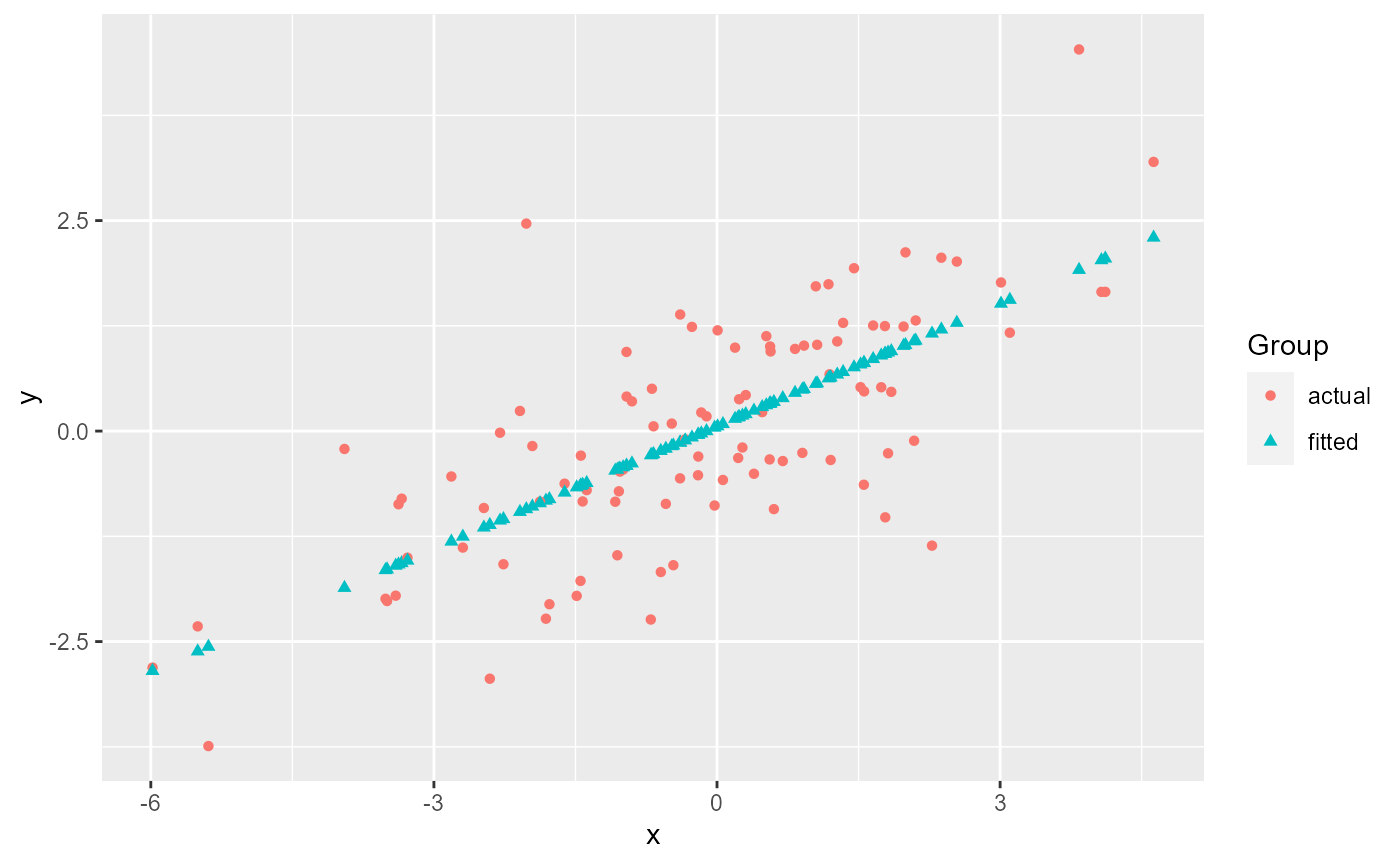
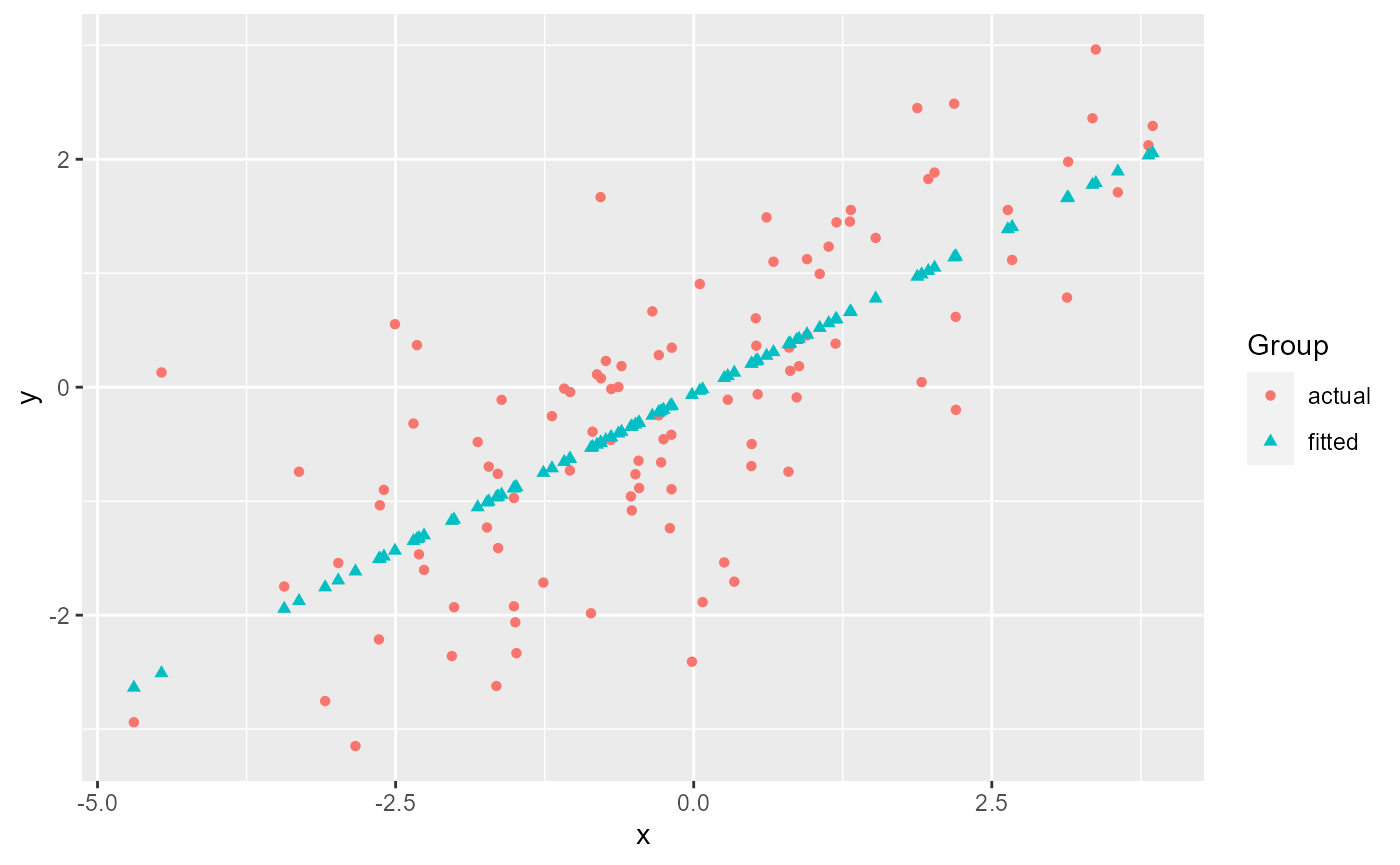
Created internal descriptive stats calculation functions

diff --git a/docs/reference/ggmatplot.html b/docs/reference/ggmatplot.html
@@ -228,8 +228,7 @@ y axis label and legend title respectively.</p></td>
     <tr>
       <th>...</th>
       <td><p>Other arguments passed on to the plot. Possible arguments are those
-that can be passed on to the <a href='#plot-types'>underlying ggplot layer</a>, corresponding
-to the plot type.</p></td>
+that can be passed on to the <a href='#plot-types'>underlying ggplot layer</a>.</p></td>
     </tr>
     </table>
 
@@ -262,7 +261,8 @@ or <a href='https://ggplot2.tidyverse.org/reference/index.html#section-stats'><c
 <span class='r-in'><span class='fu'>ggmatplot</span><span class='op'>(</span><span class='va'>iris_sub</span><span class='op'>[</span>, <span class='fu'><a href='https://rdrr.io/r/base/c.html'>c</a></span><span class='op'>(</span><span class='fl'>1</span>, <span class='fl'>3</span><span class='op'>)</span><span class='op'>]</span>, <span class='va'>iris_sub</span><span class='op'>[</span>, <span class='fu'><a href='https://rdrr.io/r/base/c.html'>c</a></span><span class='op'>(</span><span class='fl'>2</span>, <span class='fl'>4</span><span class='op'>)</span><span class='op'>]</span><span class='op'>)</span></span>
 <span class='r-plt img'><img src='ggmatplot-1.png' alt='' width='700' height='433' /></span>
 <span class='r-in'><span class='co'># Modify legend label and axis</span></span>
-<span class='r-in'><span class='fu'>ggmatplot</span><span class='op'>(</span><span class='va'>iris_sub</span><span class='op'>[</span>, <span class='fu'><a href='https://rdrr.io/r/base/c.html'>c</a></span><span class='op'>(</span><span class='fl'>1</span>, <span class='fl'>3</span><span class='op'>)</span><span class='op'>]</span>, <span class='va'>iris_sub</span><span class='op'>[</span>, <span class='fu'><a href='https://rdrr.io/r/base/c.html'>c</a></span><span class='op'>(</span><span class='fl'>2</span>, <span class='fl'>4</span><span class='op'>)</span><span class='op'>]</span>, shape <span class='op'>=</span> <span class='fu'><a href='https://rdrr.io/r/base/c.html'>c</a></span><span class='op'>(</span><span class='fl'>4</span>, <span class='fl'>6</span><span class='op'>)</span>, legend_label <span class='op'>=</span> <span class='fu'><a href='https://rdrr.io/r/base/c.html'>c</a></span><span class='op'>(</span><span class='st'>"Sepal"</span>, <span class='st'>"Petal"</span><span class='op'>)</span>, legend_title <span class='op'>=</span> <span class='st'>""</span>, xlab <span class='op'>=</span> <span class='st'>"Length"</span>, ylab <span class='op'>=</span> <span class='st'>"Width"</span><span class='op'>)</span></span>
+<span class='r-in'><span class='fu'>ggmatplot</span><span class='op'>(</span><span class='va'>iris_sub</span><span class='op'>[</span>, <span class='fu'><a href='https://rdrr.io/r/base/c.html'>c</a></span><span class='op'>(</span><span class='fl'>1</span>, <span class='fl'>3</span><span class='op'>)</span><span class='op'>]</span>, <span class='va'>iris_sub</span><span class='op'>[</span>, <span class='fu'><a href='https://rdrr.io/r/base/c.html'>c</a></span><span class='op'>(</span><span class='fl'>2</span>, <span class='fl'>4</span><span class='op'>)</span><span class='op'>]</span>, shape <span class='op'>=</span> <span class='fu'><a href='https://rdrr.io/r/base/c.html'>c</a></span><span class='op'>(</span><span class='fl'>4</span>, <span class='fl'>6</span><span class='op'>)</span>,</span>
+<span class='r-in'>legend_label <span class='op'>=</span> <span class='fu'><a href='https://rdrr.io/r/base/c.html'>c</a></span><span class='op'>(</span><span class='st'>"Sepal"</span>, <span class='st'>"Petal"</span><span class='op'>)</span>, legend_title <span class='op'>=</span> <span class='st'>""</span>, xlab <span class='op'>=</span> <span class='st'>"Length"</span>, ylab <span class='op'>=</span> <span class='st'>"Width"</span><span class='op'>)</span></span>
 <span class='r-plt img'><img src='ggmatplot-2.png' alt='' width='700' height='433' /></span>
 </pre>
   </div>

diff --git a/docs/articles/ggmatplot.html b/docs/articles/ggmatplot.html
@@ -101,7 +101,7 @@
 <span class="va">x</span> <span class="op">&lt;-</span> <span class="fu"><a href="https://rdrr.io/r/base/c.html">c</a></span><span class="op">(</span><span class="fu"><a href="https://rdrr.io/r/stats/Normal.html">rnorm</a></span><span class="op">(</span><span class="fl">100</span>, sd <span class="op">=</span> <span class="fl">2</span><span class="op">)</span><span class="op">)</span>
 
 <span class="fu"><a href="https://rdrr.io/r/utils/head.html">head</a></span><span class="op">(</span><span class="va">x</span><span class="op">)</span>
-<span class="co">#&gt; [1]  1.1926381  0.2691635  2.1054507 -0.1983164 -1.3809985  2.3773164</span>
+<span class="co">#&gt; [1]  1.9118231 -0.2733126 -0.4885480  2.1842277 -1.5078145 -2.2615440</span>
 
 <span class="co"># matrix z</span>
 <span class="va">y</span> <span class="op">&lt;-</span> <span class="va">x</span> <span class="op">*</span> <span class="fl">0.5</span> <span class="op">+</span> <span class="fu"><a href="https://rdrr.io/r/stats/Normal.html">rnorm</a></span><span class="op">(</span><span class="fl">100</span>, sd <span class="op">=</span> <span class="fl">1</span><span class="op">)</span>
@@ -110,13 +110,13 @@
            fitted <span class="op">=</span> <span class="va">fit.y</span><span class="op">)</span>
 
 <span class="fu"><a href="https://rdrr.io/r/utils/head.html">head</a></span><span class="op">(</span><span class="va">z</span><span class="op">)</span>
-<span class="co">#&gt;       actual      fitted</span>
-<span class="co">#&gt; 1  0.6745598  0.63207948</span>
-<span class="co">#&gt; 2 -0.1953392  0.18403859</span>
-<span class="co">#&gt; 3  1.3139023  1.07494756</span>
-<span class="co">#&gt; 4 -0.3022929 -0.04276802</span>
-<span class="co">#&gt; 5 -0.7011745 -0.61656833</span>
-<span class="co">#&gt; 6  2.0589508  1.20684831</span></code></pre></div>
+<span class="co">#&gt;        actual     fitted</span>
+<span class="co">#&gt; 1  0.04460327  0.9899395</span>
+<span class="co">#&gt; 2 -0.65951707 -0.2092345</span>
+<span class="co">#&gt; 3 -0.76376290 -0.3273529</span>
+<span class="co">#&gt; 4  2.48713729  1.1394316</span>
+<span class="co">#&gt; 5 -0.97223090 -0.8867131</span>
+<span class="co">#&gt; 6 -1.60311360 -1.3003501</span></code></pre></div>
 <p><code>ggmatplot</code> plots vector <code>x</code> against each column of matrix <code>z</code> using the default <code>plot_type = "point"</code>. This will be represented on the resulting plot as two groups, identified using different shapes and colors.</p>
 <div class="sourceCode" id="cb2"><pre class="downlit sourceCode r">
 <code class="sourceCode R"><span class="kw"><a href="https://rdrr.io/r/base/library.html">library</a></span><span class="op">(</span><span class="va"><a href="https://github.com/xuan-liang/ggmatplot">ggmatplot</a></span><span class="op">)</span>
